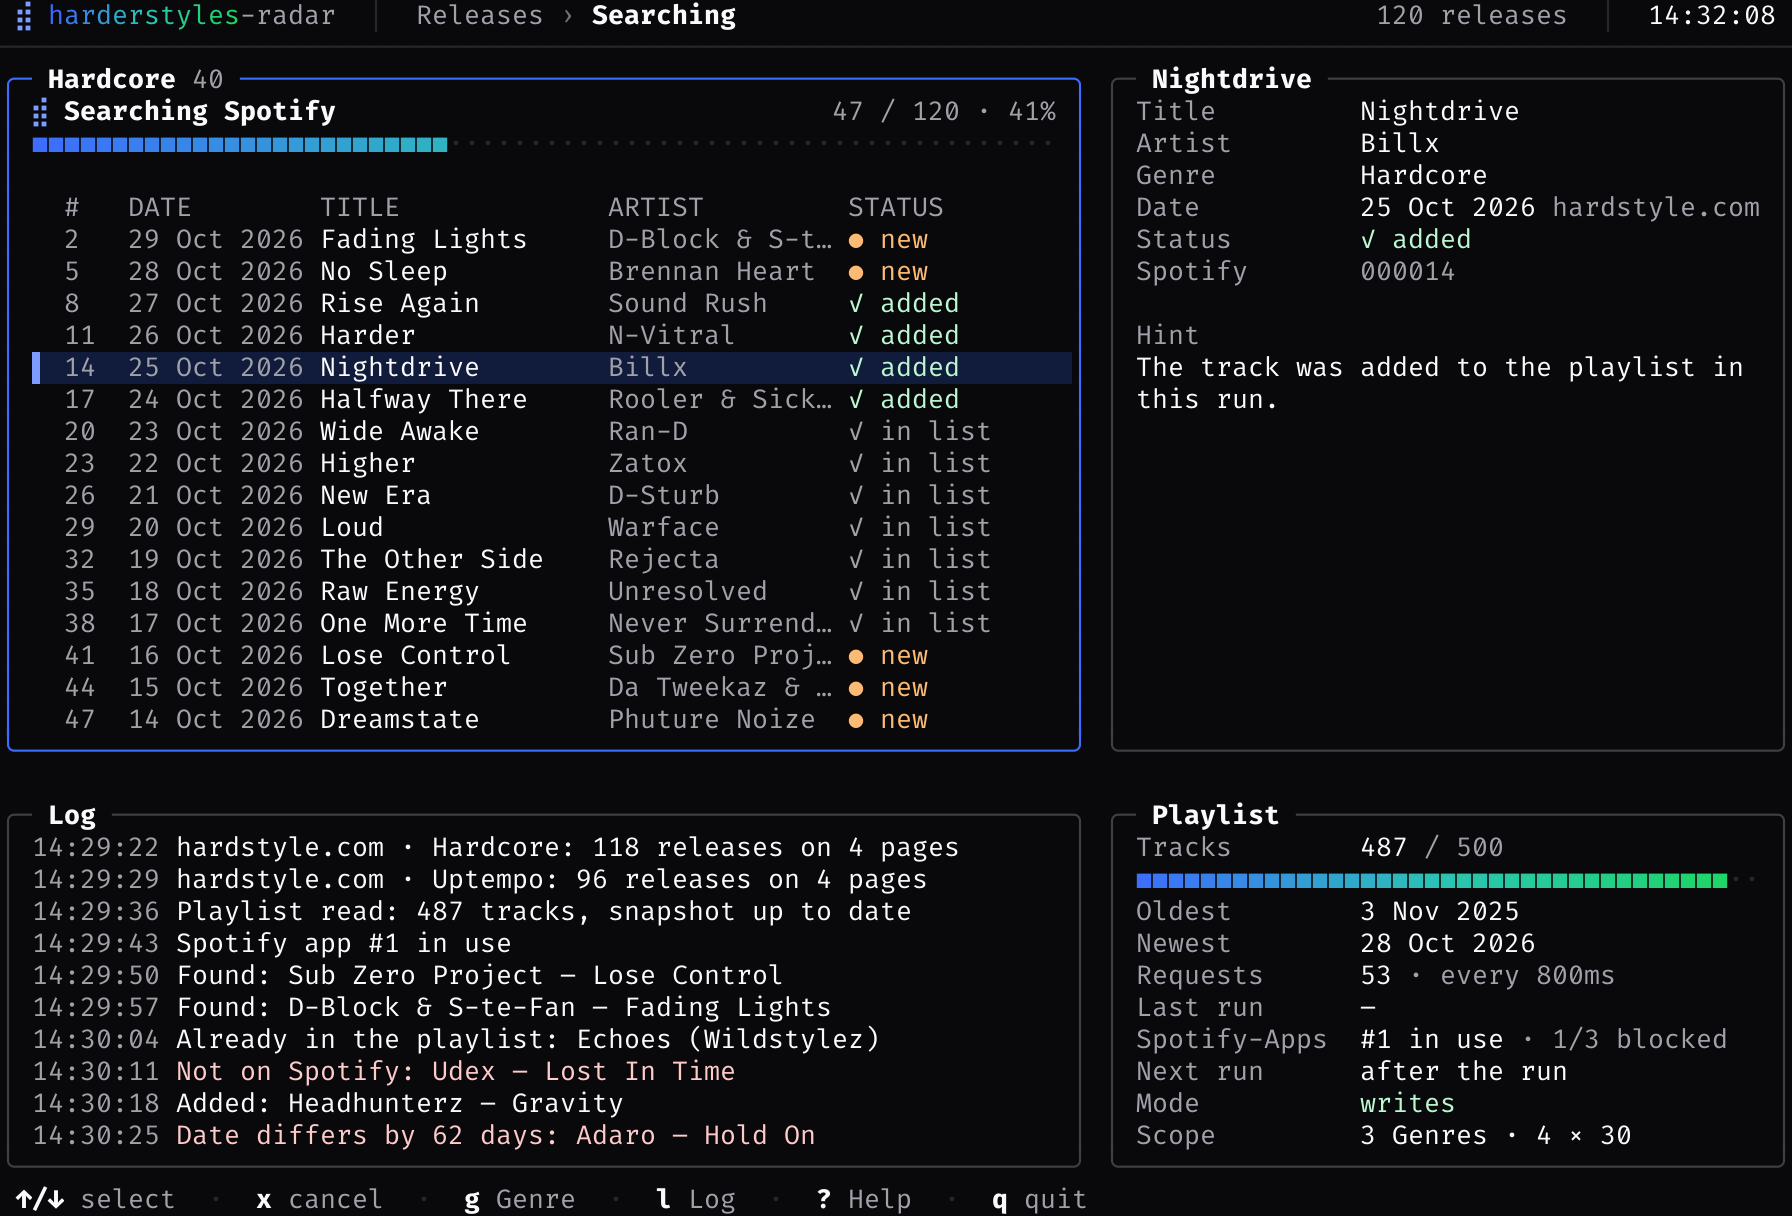
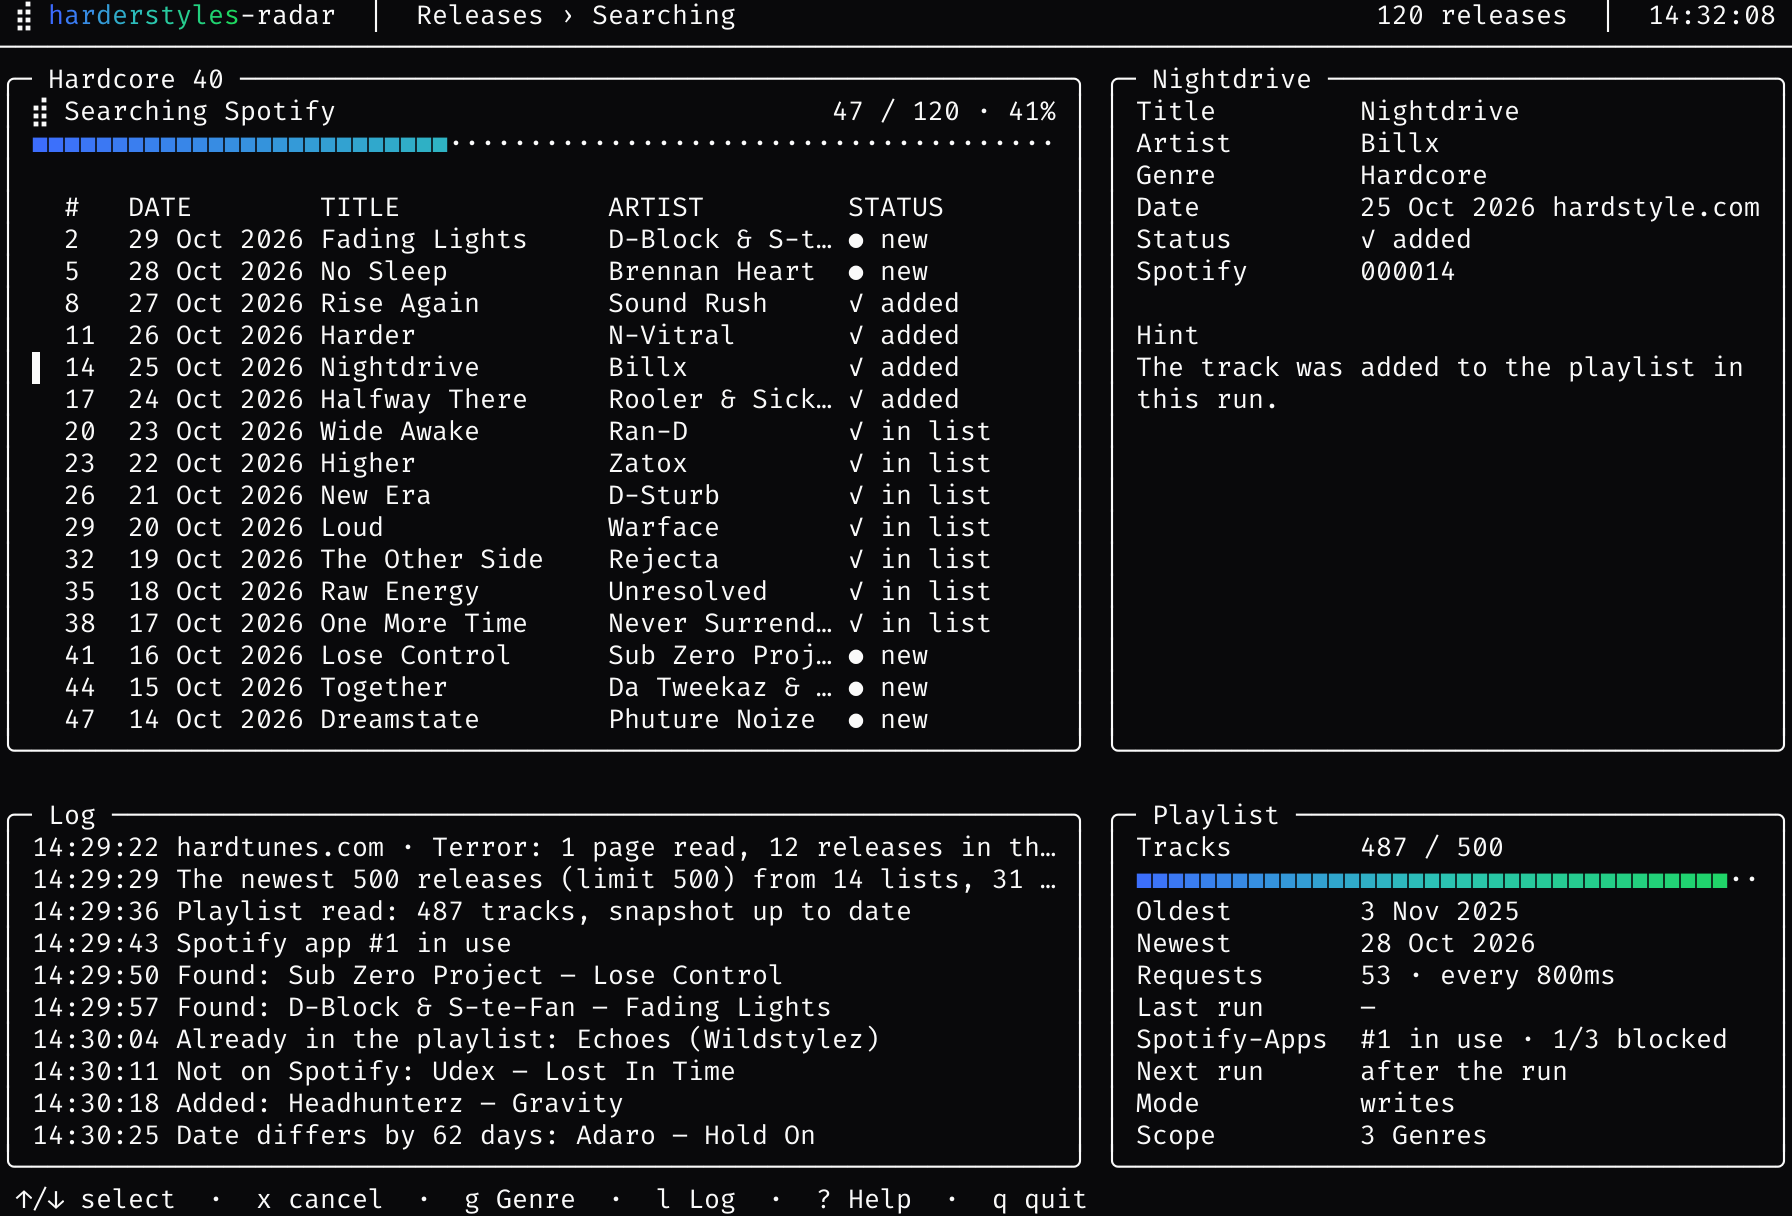
Render the screenshots with the new log and header

diff --git a/internal/tui/screenshots_test.go b/internal/tui/screenshots_test.go
@@ -164,9 +164,9 @@ func shotModel() *model {
 		err  bool
 	}{
 		{"Run started", false},
-		{"hardstyle.com · Hardstyle: 120 releases on 4 pages", false},
-		{"hardstyle.com · Hardcore: 118 releases on 4 pages", false},
-		{"hardstyle.com · Uptempo: 96 releases on 4 pages", false},
+		{"hardstyle.com · Hardstyle: 4 pages read, 120 releases in the window", false},
+		{"hardtunes.com · Terror: 1 page read, 12 releases in the window", false},
+		{"The newest 500 releases (limit 500) from 14 lists, 31 pages read", false},
 		{"Playlist read: 487 tracks, snapshot up to date", false},
 		{"Spotify app #1 in use", false},
 		{"Found: Sub Zero Project – Lose Control", false},
